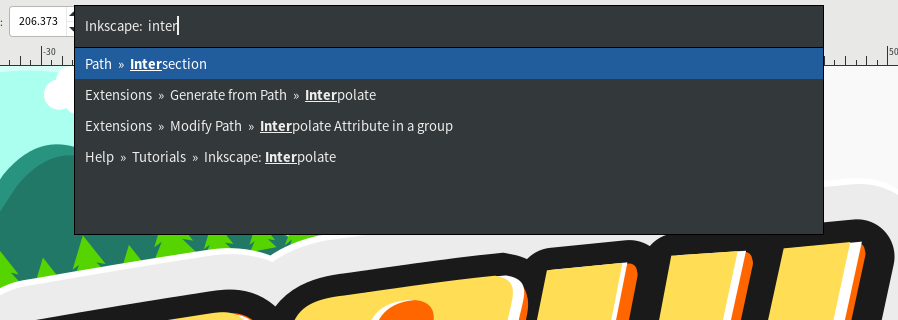
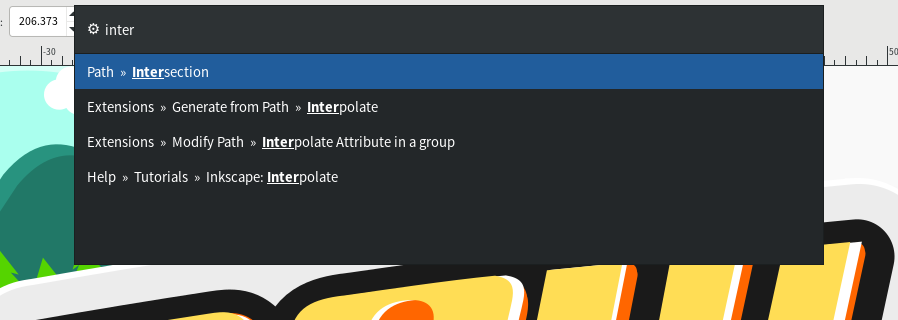
improve appearance consistency detween dialogs

diff --git a/gnomehud/handlers/rofi.py b/gnomehud/handlers/rofi.py
@@ -59,17 +59,14 @@ class RofiMenu:
 
   def gtk_theme_colors(self):
     colors = {
-      'bg':           self.lookup_color('theme_bg_color'),
-      'fg':           self.lookup_color('theme_fg_color'),
-      'selected_bg':  self.lookup_color('theme_selected_bg_color'),
-      'selected_fg':  self.lookup_color('theme_selected_fg_color'),
-      'selected_br':  self.lookup_color('theme_selected_border_color'),
-      'error_bg':     self.lookup_color('error_bg_color'),
-      'error_fg':     self.lookup_color('error_fg_color'),
-      'info_bg':      self.lookup_color('info_bg_color'),
-      'unfocused_fg': self.lookup_color('theme_unfocused_fg_color'),
-      'unfocused_bg': self.lookup_color('theme_unfocused_bg_color'),
-      'unfocused_br': self.lookup_color('theme_unfocused_border_color')
+      'header':      self.lookup_color('insensitive_bg_color'),
+      'base':        self.lookup_color('theme_base_color'),
+      'text':        self.lookup_color('theme_text_color'),
+      'borders':     self.lookup_color('borders'),
+      'selected_bg': self.lookup_color('theme_selected_bg_color'),
+      'selected_fg': self.lookup_color('theme_selected_fg_color'),
+      'error_bg':    self.lookup_color('error_bg_color'),
+      'error_fg':    self.lookup_color('error_fg_color')
     }
 
     for name, color in colors.items():
@@ -82,21 +79,21 @@ class RofiMenu:
   def theme_colors(self):
     colors = {
       'window': [
-        self.gtk_theme_colors['bg'],
-        self.gtk_theme_colors['selected_br'],
-        self.gtk_theme_colors['unfocused_br']
+        self.gtk_theme_colors['header'],
+        self.gtk_theme_colors['borders'],
+        self.gtk_theme_colors['borders']
       ],
       'normal': [
-        self.gtk_theme_colors['bg'],
-        self.gtk_theme_colors['fg'],
-        self.gtk_theme_colors['bg'],
+        self.gtk_theme_colors['base'],
+        self.gtk_theme_colors['text'],
+        self.gtk_theme_colors['base'],
         self.gtk_theme_colors['selected_bg'],
         self.gtk_theme_colors['selected_fg']
       ],
       'urgent': [
-        self.gtk_theme_colors['bg'],
-        self.gtk_theme_colors['fg'],
-        self.gtk_theme_colors['bg'],
+        self.gtk_theme_colors['base'],
+        self.gtk_theme_colors['text'],
+        self.gtk_theme_colors['base'],
         self.gtk_theme_colors['error_bg'],
         self.gtk_theme_colors['error_fg']
       ]
@@ -114,11 +111,14 @@ class RofiMenu:
       #window { location: north; anchor: north; border: 1px;
         width: 750px; padding: 0; margin: 32px 0 0; }
 
-      #listview { border: 1px 0 0; spacing: 0;
-        scrollbar: false; padding: 0; lines: 6; }
+      #mainbox { spacing: 0; children: [inputbar, listview]; }
 
-      #inputbar { padding: 10px; }
-      #element { border: 0; padding: 6px 10px; }
+      #listview { border: 1px 0 0; spacing: 0; scrollbar: false;
+        padding: 0; lines: 6; background-color: @normal-background; }
+
+      #inputbar { padding: 14px 12px; }
+      #element { border: 0; padding: 8px 12px; }
+      #textbox-prompt-colon { str: ""; }
     """
 
     return style
@@ -132,7 +132,7 @@ class RofiMenu:
       '-i',
       '-dmenu',
       '-theme-str', self.theme_string,
-      '-p', self.prompt,
+      '-p', '⚙',
       '-font', self.font_name,
       '-color-window', self.theme_colors['window'],
       '-color-normal', self.theme_colors['normal'],

diff --git a/gnomehud/handlers/default.py b/gnomehud/handlers/default.py
@@ -84,7 +84,7 @@ class CommandListItem(Gtk.ListBoxRow):
     self.label.set_markup(normalize_label(value))
 
   def format_matched_string(self, match):
-    return '<u>%s</u>' % match.group(0)
+    return '<u><b>%s</b></u>' % match.group(0)
 
   def do_label_markup(self):
     if bool(self.query):
